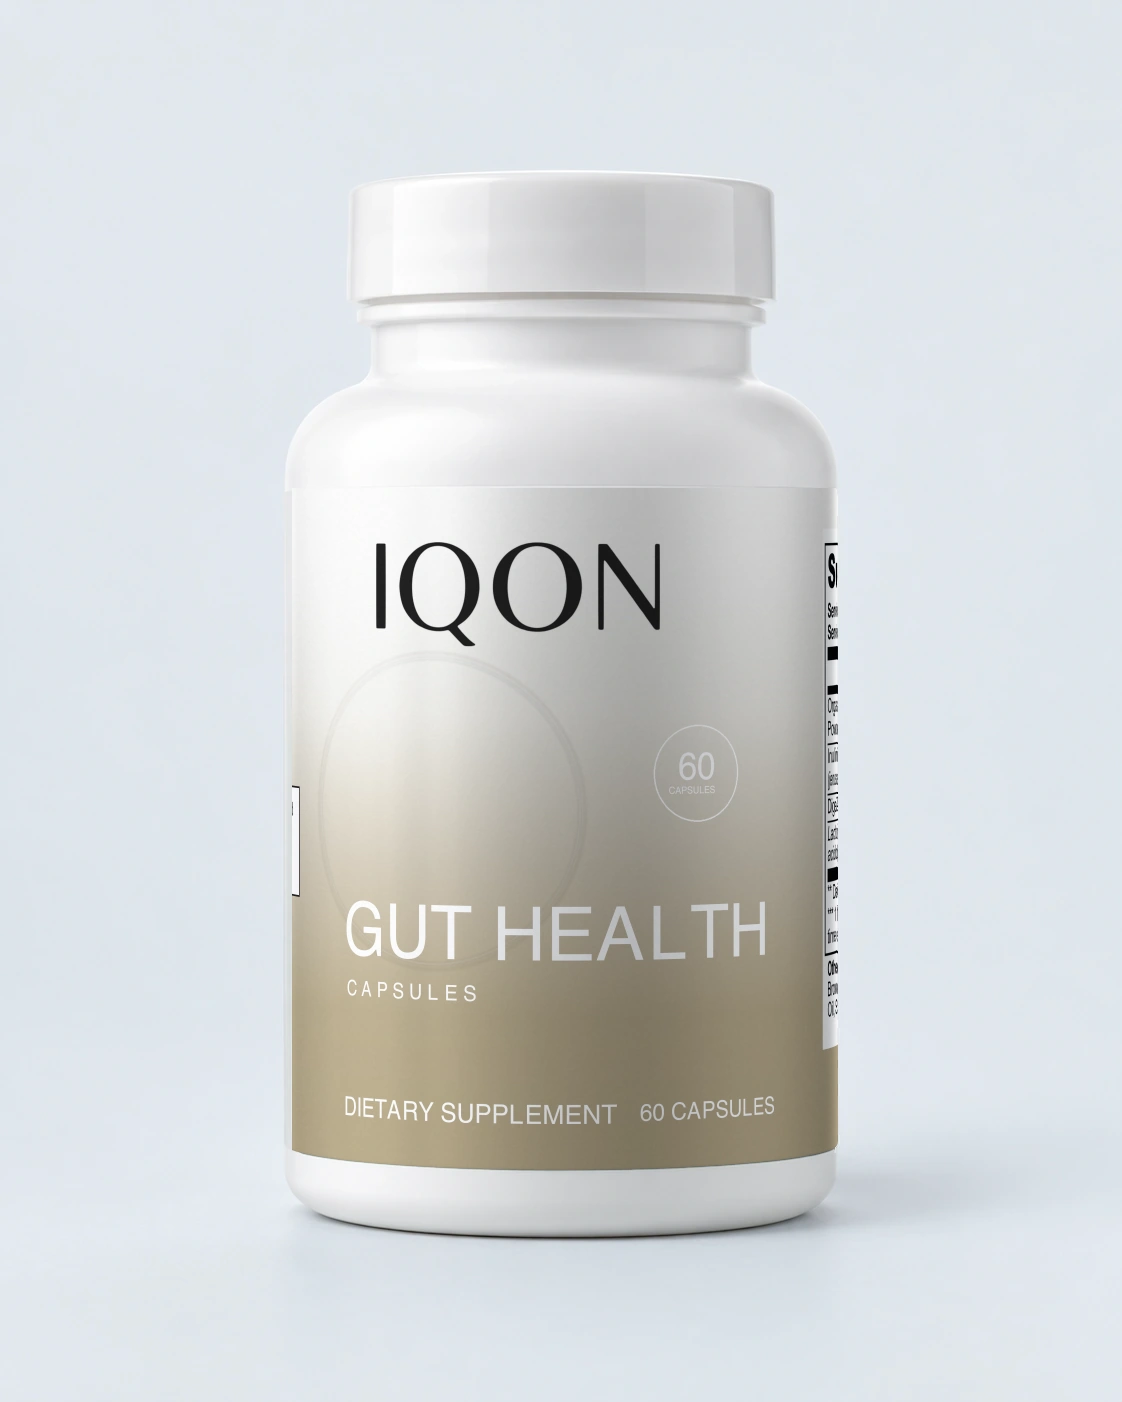
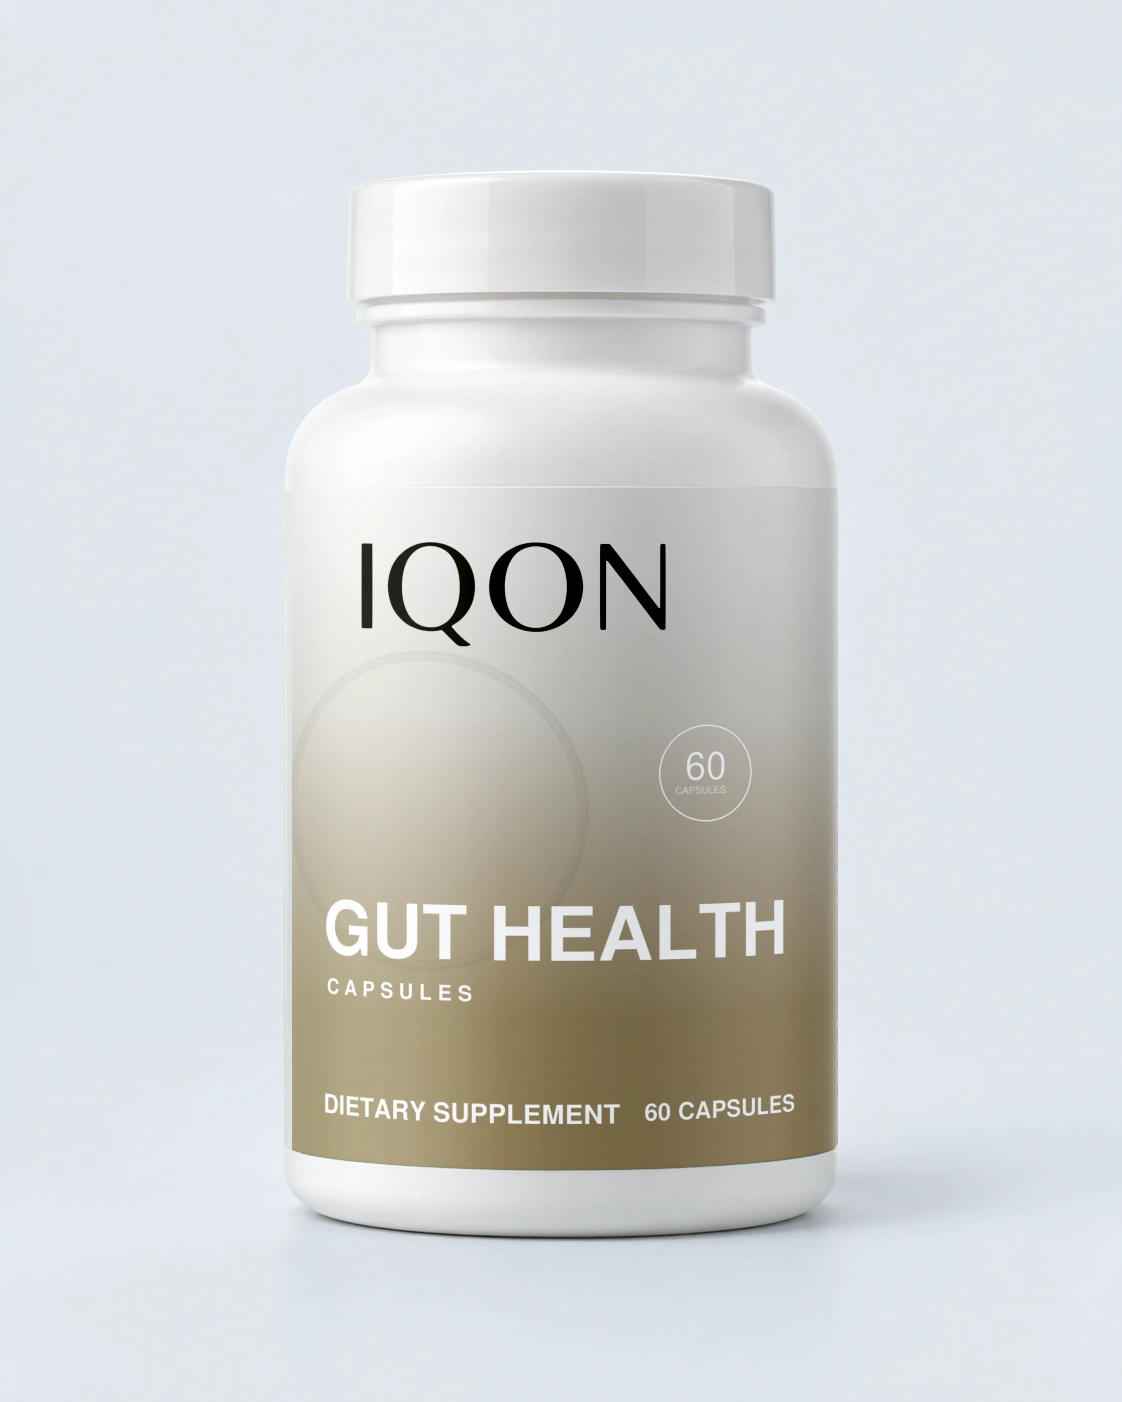
Set Gut Health to $29.99 and rebuild its pack shots
Owner confirmed $29.99; the Shopify product (handle gut-health) is live at
that price. Test fixtures follow (Buy 3: $67.50 from $89.97) and the launch
catalog records the live product and variant ids.

The pack shots are rebuilt from the owner's label proof (the PDF does not
embed Helvetica, so the earlier poppler render gave GUT and HEALTH different
weights). The label now wraps the cylinder with edge foreshortening so only
the front panel shows: no flat Supplement Facts strip, no stray FDA-box edge.
Lighting is fitted from the Liver Support label in the same photo, so text
weight is even. 15_hero becomes the same bottle turned to its Supplement
Facts panel, and the full lineup shows Gut Health in the former Colon slot.

diff --git a/tests/ui/purchase-options.test.ts b/tests/ui/purchase-options.test.ts
@@ -68,12 +68,12 @@ it("keeps the 3+ tier selected when the stepper goes past three and returns to o
 });
 
 it("includes Gut Health in the approved bundle tiers",()=>{
-  const gut={...products.find(p=>p.id==="gut-health")!,available:true,price:30.64,currency:"USD",variants:[{...variant,price:30.64}]};
+  const gut={...products.find(p=>p.id==="gut-health")!,available:true,price:29.99,currency:"USD",variants:[{...variant,price:29.99}]};
   const {container}=render(React.createElement(ProductPage,{product:gut}));
   expect(screen.getByRole("radiogroup",{name:"Bundle quantity"})).toBeTruthy();
   fireEvent.click(screen.getByRole("radio",{name:/^Buy 3/}));
-  expect(addButtons()[0].textContent).toContain("$68.94");
-  expect(addButtons()[0].querySelector("s")?.textContent).toBe("$91.92");
+  expect(addButtons()[0].textContent).toContain("$67.50");
+  expect(addButtons()[0].querySelector("s")?.textContent).toBe("$89.97");
   expect(container.textContent).not.toContain("not part of the bundle offer");
 });
 

diff --git a/docs/supplement-images.md b/docs/supplement-images.md
@@ -58,12 +58,12 @@ Eight generated alternatives were rejected for backdrop, scale or tiny-letter dr
 
 Colon Gentle Cleanse was retired and its site imagery removed (`04_pack_colon_cleanse`, `15_hero_colon_sachet`, its editorial scene and material photograph, and `sachet-macro`). The order email thumbnail `email/products/colon-gentle-cleanse.jpg` is kept so emails already sent keep their image.
 
-Gut Health imagery was produced locally from the final IQON label artwork (`IQON supplement labels/final/Gut Health/IQON_Gut_Health_Label.pdf` and proof PNG) without generative services: the Liver Support studio bottle (`07_pack_liver_support.webp`, the same capsule bottle format) supplied the bottle, light and background, and its label area was replaced with the Gut Health front panel, warped to the cylinder and relit from the original shading. The script is kept with the PR evidence (`make_packshot.py`). It is a faithful composite, not a photograph of a physical Gut Health bottle; replace it with studio photography when available.
+Gut Health imagery was produced locally from the final IQON label artwork (`IQON supplement labels/final/Gut Health/IQON_Gut_Health_Label_proof.png`; the PDF does not embed its Helvetica fonts, so the owner's proof is the faithful rasterisation) without generative services. The Liver Support studio bottle (`07_pack_liver_support.webp`, the same capsule bottle format) supplies the bottle, light and background. The label is wrapped onto the cylinder with edge foreshortening so only the front panel faces the camera, as on the other bottles: the FDA statement and Supplement Facts panels curve out of view. Lighting is fitted per column from the Liver label's own plain white and solid green bands, so highlight, rim light and edge falloff match the reference. The script is kept with the PR evidence (`make_packshot_v2.py`). These are faithful composites, not photographs of a physical Gut Health bottle; replace them with studio photography when available.
 
-- `04_pack_gut_health.webp`: primary pack shot.
-- `15_hero_gut_health_label.webp`: label detail with the Supplement Facts panel.
-- `product-editorial/gut-health.webp`: Liver Support editorial scene with the Gut Health label composited onto the bottle.
+- `04_pack_gut_health.webp`: primary pack shot, front panel.
+- `15_hero_gut_health_label.webp`: the same bottle turned to show the Supplement Facts panel.
+- `product-editorial/gut-health.webp`: Liver Support editorial scene with the Gut Health label wrapped onto the bottle.
 - `supplement-materials-v1/gut-health.webp`: mirrored copy of the generic Keto-5 capsule material photograph (no packaging shown). The actual Gut Health capsule appearance has not been photographed.
 - `email/products/gut-health.jpg`: 240×300 email thumbnail from the pack shot.
 
-Of the group scenes, only `20_group_all_row` showed the Colon Gentle Cleanse jar. Because it is the default share image and appears in the Explore menu and affiliate page, the jar was removed by cutting its column band out of the source pixels, crossfading the 12px seam in the white gap and extending the seamless background equally at both edges (same 2400×1018 size; no product was redrawn). The row now shows the other ten products and does not yet include Gut Health; a new lineup photograph is needed for that. All other group scenes are unchanged.
+Of the group scenes, only `20_group_all_row` showed the Colon Gentle Cleanse jar. It is the default share image and appears in the Explore menu and affiliate page. Starting from the original lineup, the jar's column was replaced with a copy of the lineup's own Liver Support bottle, relabelled with the Gut Health front panel in the same way. The narrower bottle's 40px difference was absorbed by extending the seamless background equally at both edges (same 2400×1018 size). The row again shows eleven products, Gut Health in the former Colon position. All other group scenes are unchanged.

diff --git a/docs/product-content-sources.md b/docs/product-content-sources.md
@@ -42,7 +42,7 @@ Colon Gentle Cleanse was retired by the owner and replaced by the Supliful "Gut 
 
 Gut Health facts come from the final IQON label artwork (`IQON_Gut_Health_Label.pdf`, proof PNG) and the supplier page <https://supliful.com/catalog/gut-health-capsules>, which agree: 60 capsules, two capsules daily (30 servings), organic apple cider vinegar powder 1,000 mg, inulin (Jerusalem artichoke root) 200 mg, DigeZyme® 100 mg, Lactobacillus acidophilus LA85 10 mg (1 billion CFU at the time of manufacture); other ingredients HPMC capsule, brown rice flour, magnesium stearate, olive oil, silicon dioxide. Supplier dietary claims: gluten free, vegetarian, allergen free, non GMO, vegan friendly. Net weight 58 g (supplier); approx. 90.72 g packed container (owner brief). Manufacturing and testing (owner brief): UL certified cGMP, FDA registered US facility; third party ISO/IEC 17025 testing (COA Gut_Health_COA_1253-5040235_18022026).
 
-Copy is structure/function only ("supports digestive comfort", "prebiotic fiber and probiotics for gut health") with the asterisk and FDA disclaimer the site already uses. No research sources were added for this product, so no education block cites studies; no disease, treatment, cleanse or laxative claim is made. Price 30.64 mirrors Liver Support (same bottle format) and is pending owner confirmation.
+Copy is structure/function only ("supports digestive comfort", "prebiotic fiber and probiotics for gut health") with the asterisk and FDA disclaimer the site already uses. No research sources were added for this product, so no education block cites studies; no disease, treatment, cleanse or laxative claim is made. Price 29.99 is owner-confirmed.
 
 ## Other background checks
 
